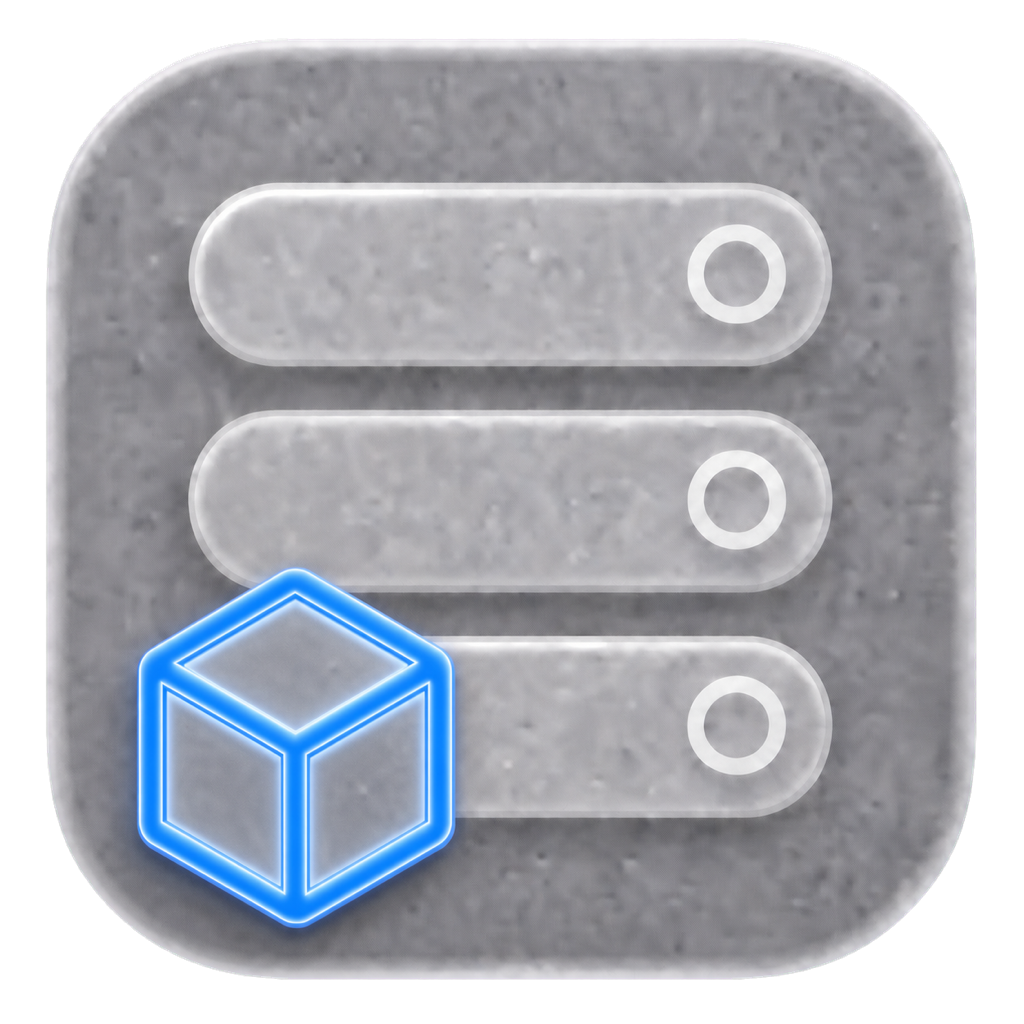
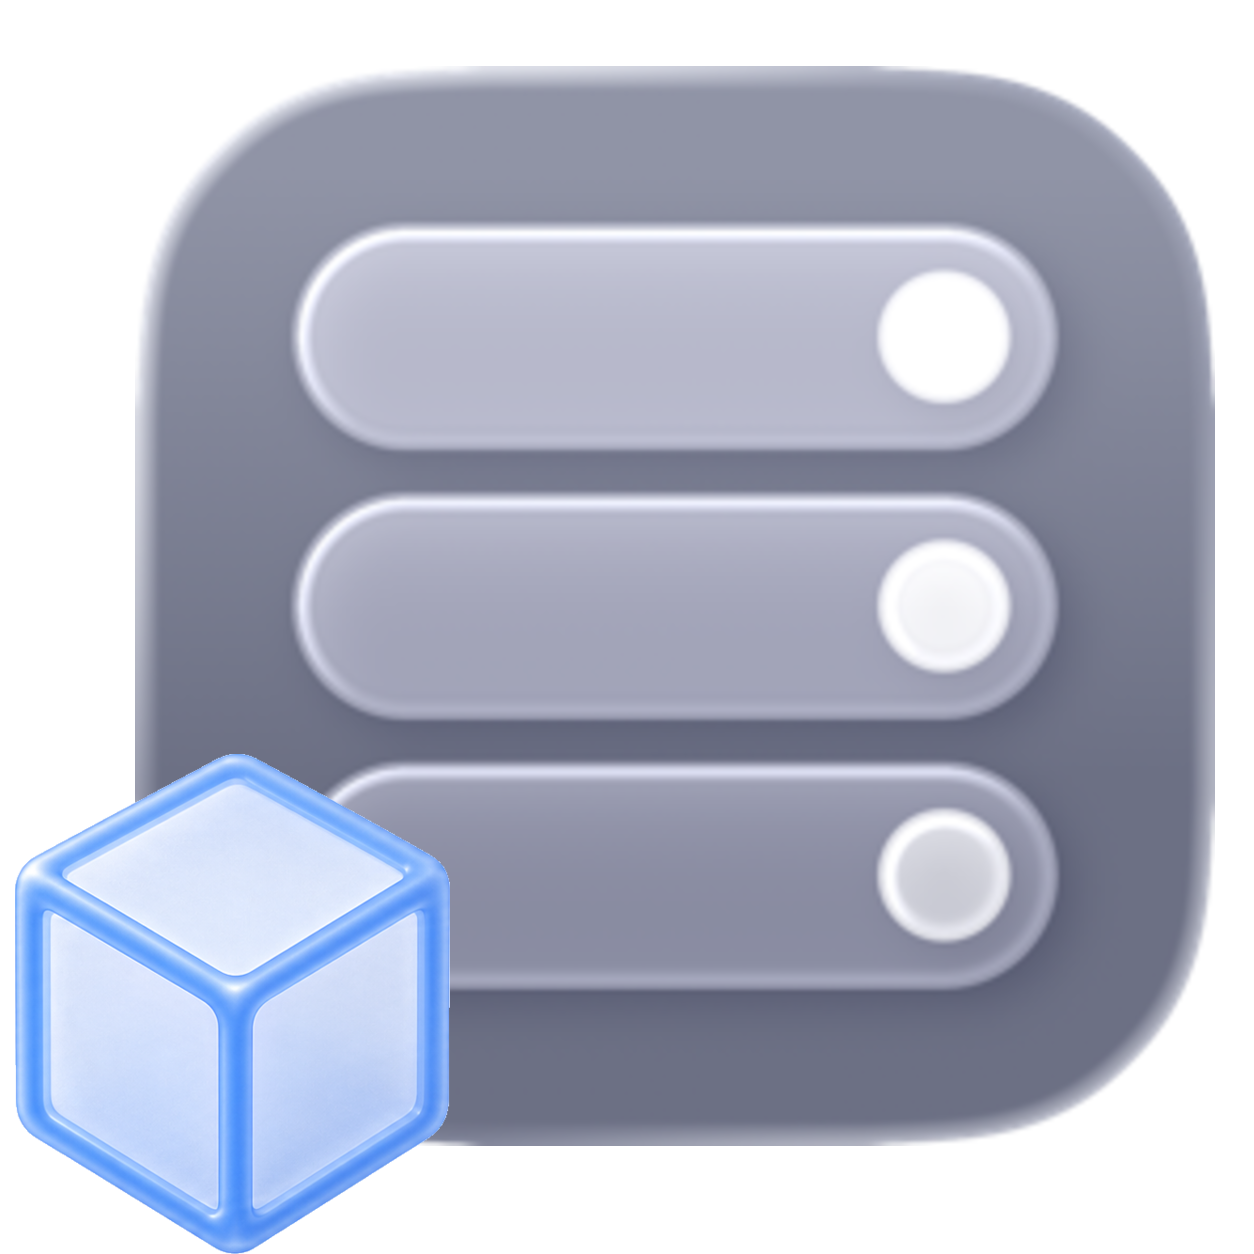
docs: adopt frosted devcontainer artwork

diff --git a/README.md b/README.md
@@ -2,7 +2,7 @@
 
 <!-- markdownlint-disable MD033 -->
 <p>
-  <img align="left" hspace="20" src="docs/images/devcontainer-icon.png" width="147" alt="devcontainer icon: a blue glass cube in front of three frosted container trays" />
+  <img align="left" hspace="20" src="docs/images/devcontainer-icon.png" width="147" alt="devcontainer icon: a blue glass cube overlapping the standard three-row container service panel" />
   <a href="https://sonarcloud.io/summary/new_code?id=stephenlclarke_devcontainer"><img alt="Quality Gate Status" src="https://sonarcloud.io/api/project_badges/measure?project=stephenlclarke_devcontainer&metric=alert_status" /></a>
   <a href="https://sonarcloud.io/summary/new_code?id=stephenlclarke_devcontainer"><img alt="Bugs" src="https://sonarcloud.io/api/project_badges/measure?project=stephenlclarke_devcontainer&metric=bugs" /></a>
   <a href="https://sonarcloud.io/summary/new_code?id=stephenlclarke_devcontainer"><img alt="Code Smells" src="https://sonarcloud.io/api/project_badges/measure?project=stephenlclarke_devcontainer&metric=code_smells" /></a>
